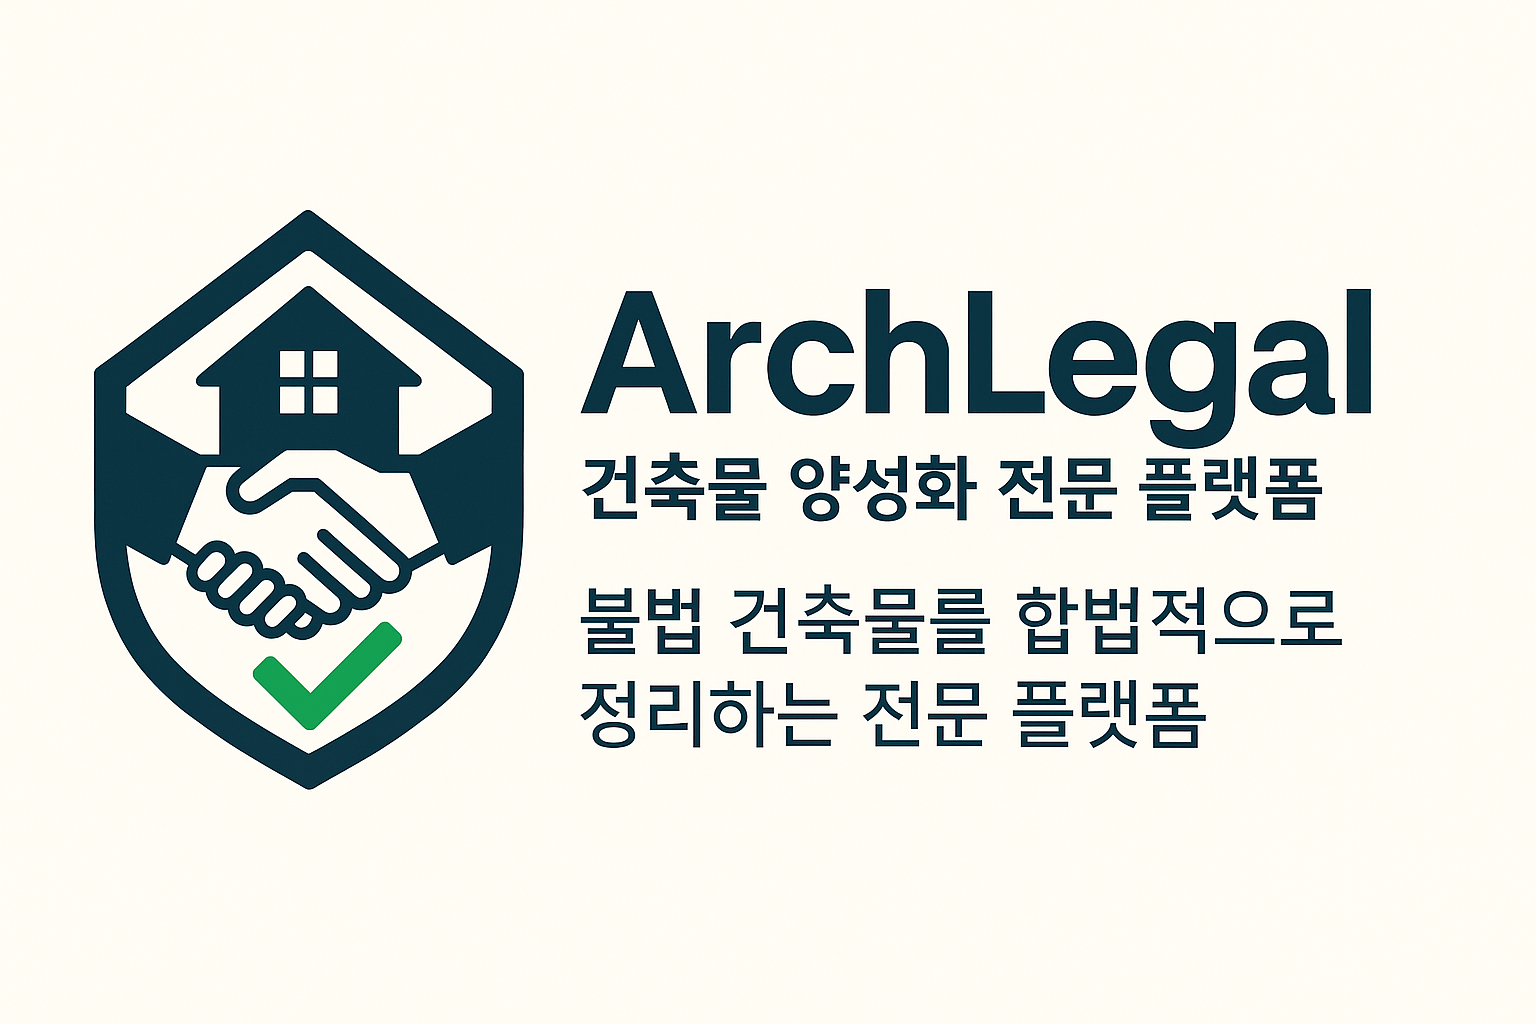
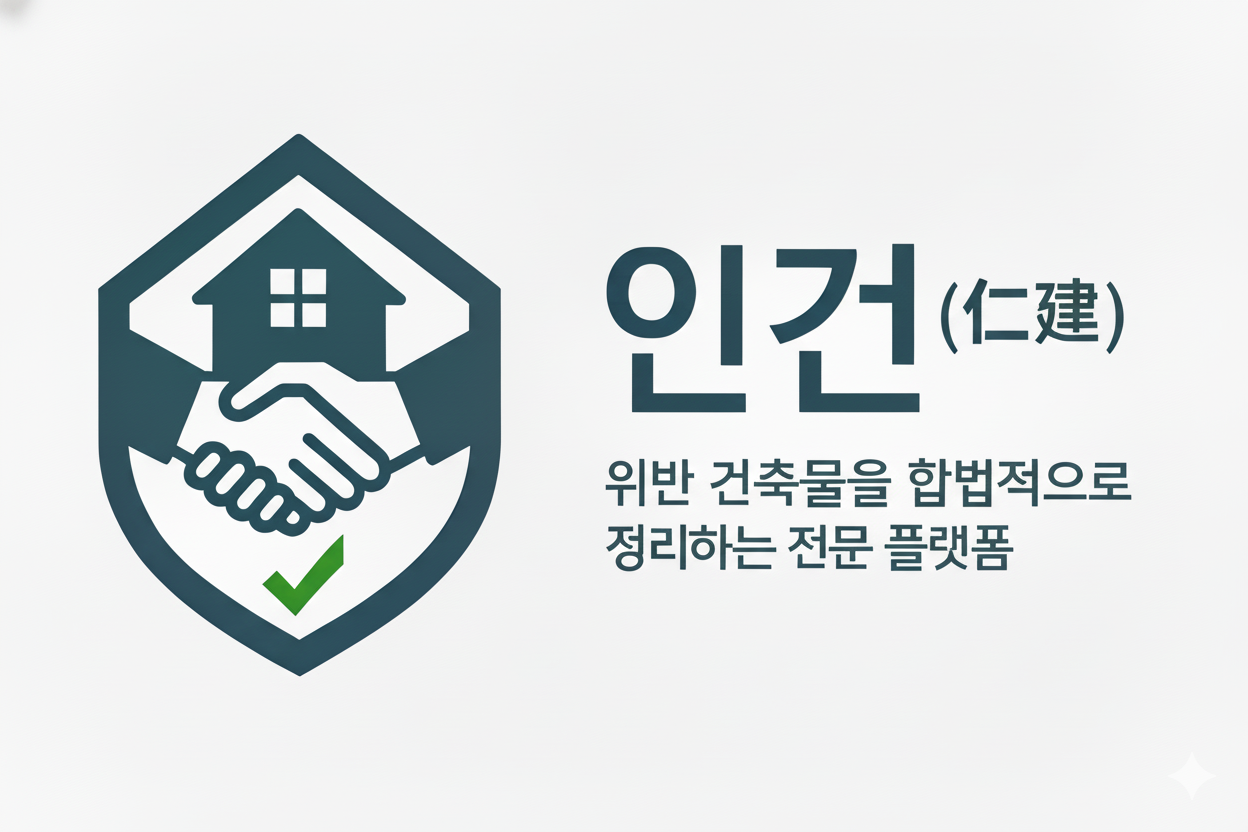
브랜드명 변경 및 업로드 UI 개선
- ArchLegal 브랜드명을 인건(仁建)으로 변경
- 메타데이터 및 OG 이미지 업데이트
- 파일 업로드 UI 개선 (커스텀 버튼 추가, 스타일링 개선)

🤖 Generated with [Claude Code](https://claude.com/claude-code)

Changed region(s): [[0.0625, 0.1562, 0.9062, 0.8125], [0.0, 0.0, 0.0312, 0.0312]]

diff --git a/app/upload/UploadPageClient.tsx b/app/upload/UploadPageClient.tsx
@@ -2,6 +2,8 @@
 
 import { useEffect, useState, useCallback, ChangeEvent } from 'react';
 import { Input } from '@/components/ui/input';
+import { Button } from '@/components/ui/button';
+import { Upload } from 'lucide-react';
 
 type UploadLog = {
   id: string;
@@ -262,9 +264,14 @@ export default function UploadPageClient({ token }: UploadPageClientProps) {
             const uploading = status?.uploading ?? false;
             const errorMessage = status?.error;
             const successMessage = status?.successMessage;
+            const inputId = `upload-file-${index}`;
+            const isDisabled = folder.remainingSlots <= 0 || uploading;
 
             return (
-              <div key={folder.templateName} className="bg-white border border-slate-200 rounded-lg shadow-sm p-6 flex flex-col gap-4">
+              <div
+                key={folder.templateName}
+                className="group flex flex-col gap-4 rounded-2xl border border-border/70 bg-card/95 p-6 shadow-md backdrop-blur transition hover:border-primary hover:ring-2 hover:ring-primary hover:ring-opacity-40 dark:border-border/40 dark:bg-slate-900/60 dark:hover:border-primary dark:hover:ring-primary"
+              >
                 <div className="flex items-start justify-between gap-4">
                   <div>
                     <div className="text-sm text-slate-500">STEP {index + 1}</div>
@@ -278,11 +285,24 @@ export default function UploadPageClient({ token }: UploadPageClientProps) {
                 <div className="space-y-2">
                   <label className="block text-sm font-medium text-slate-700">파일 선택</label>
                   <Input
+                    id={inputId}
                     type="file"
                     accept="image/*,application/pdf"
-                    disabled={folder.remainingSlots <= 0 || uploading}
+                    disabled={isDisabled}
+                    className="hidden"
                     onChange={(event) => handleFileChange(event, folder.templateName)}
                   />
+                  <Button
+                    type="button"
+                    variant="outline"
+                    size="default"
+                    disabled={isDisabled}
+                    className="w-full sm:w-auto gap-2"
+                    onClick={() => document.getElementById(inputId)?.click()}
+                  >
+                    {uploading ? '업로드 중...' : '파일 선택'}
+                    <Upload className="h-4 w-4" />
+                  </Button>
                   <p className="text-xs text-slate-500">jpg, png, pdf, heic 파일만 가능하며 최대 10MB까지 업로드할 수 있습니다.</p>
                   {folder.remainingSlots <= 0 && (
                     <p className="text-xs text-amber-600">업로드 가능한 파일 수를 초과했습니다. 기존 파일을 교체하려면 관리자에게 문의해주세요.</p>

diff --git a/app/layout.tsx b/app/layout.tsx
@@ -27,7 +27,7 @@ const themeInitializer = `(function() {
 export const metadata: Metadata = {
   metadataBase: new URL('https://www.archlegal.co.kr'),
   title: '건축물 양성화 전문 플랫폼',
-  description: '불법 건축물을 합법적으로 정리하는 전문 플랫폼 ArchLegal. 합법 해결, 결과 중심, 신뢰 기반 양성화 서비스를 제공합니다.',
+  description: '위반/불법 건축물을 합법적으로 정리하는 전문 플랫폼 - 인건(仁建). 합법 해결, 결과 중심, 신뢰 기반 양성화 서비스를 제공합니다.',
   verification: {
     google: 'p7WIGZAwCfciOQ_W4f0HIfNk41SWCI7f5uKVBh9HbxA',
     other: {
@@ -42,20 +42,20 @@ export const metadata: Metadata = {
     ]
   },
   openGraph: {
-    title: 'ArchLegal - 건축물 양성화 전문 플랫폼',
-    description: '불법 건축물을 합법적으로 정리하는 전문 플랫폼 ArchLegal. 합법 해결, 결과 중심, 신뢰 기반 양성화 서비스를 제공합니다.',
+    title: '인건(仁建) - 건축물 양성화 전문 플랫폼',
+    description: '위반/불법 건축물을 합법적으로 정리하는 전문 플랫폼 - 인건(仁建). 합법 해결, 결과 중심, 신뢰 기반 양성화 서비스를 제공합니다.',
     url: 'https://www.archlegal.co.kr',
     type: 'website',
     images: [
       {
         url: 'https://www.archlegal.co.kr/docu/archlegal-og.png'
       }
-    ]
+    ]₩
   },
   twitter: {
     card: 'summary_large_image',
-    title: 'ArchLegal - 건축물 양성화 전문 플랫폼',
-    description: '불법 건축물을 합법적으로 정리하는 전문 플랫폼 ArchLegal. 합법 해결, 결과 중심, 신뢰 기반 양성화 서비스를 제공합니다.',
+    title: '인건(仁建) - 건축물 양성화 전문 플랫폼',
+    description: '불법 건축물을 합법적으로 정리하는 전문 플랫폼 인건(仁建). 합법 해결, 결과 중심, 신뢰 기반 양성화 서비스를 제공합니다.',
     images: ['https://www.archlegal.co.kr/docu/archlegal-og.png']
   },
 
